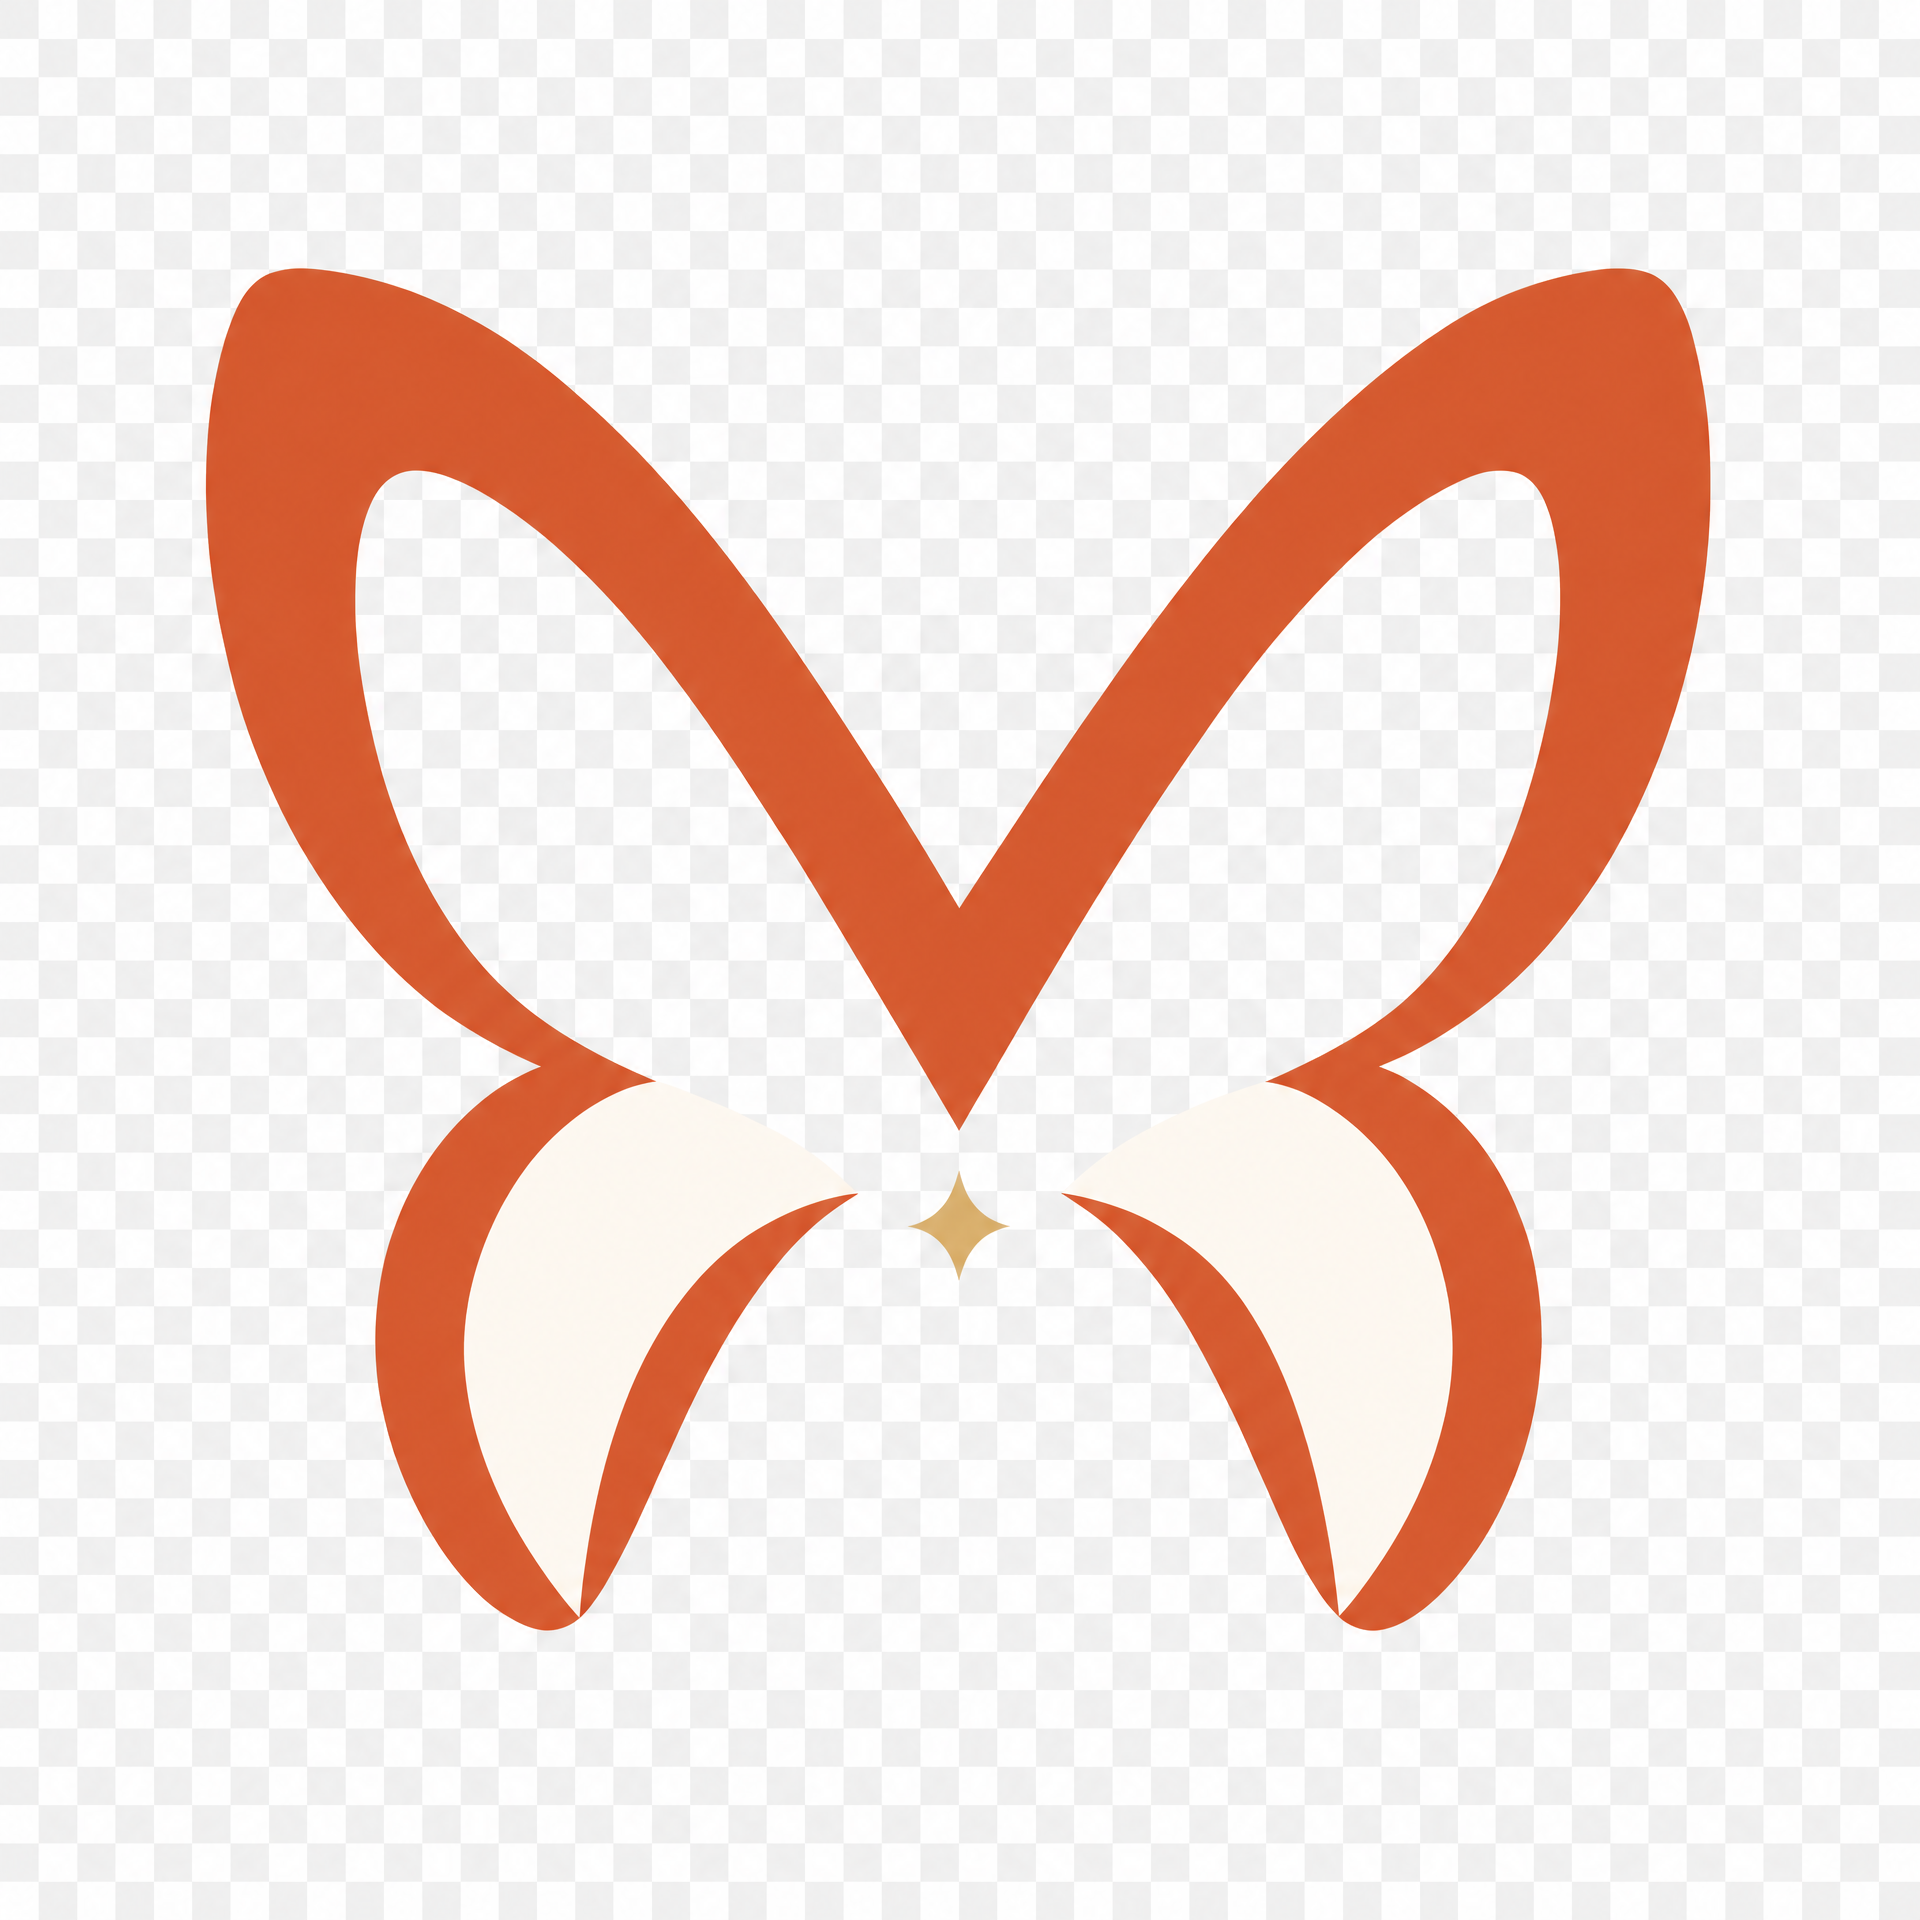
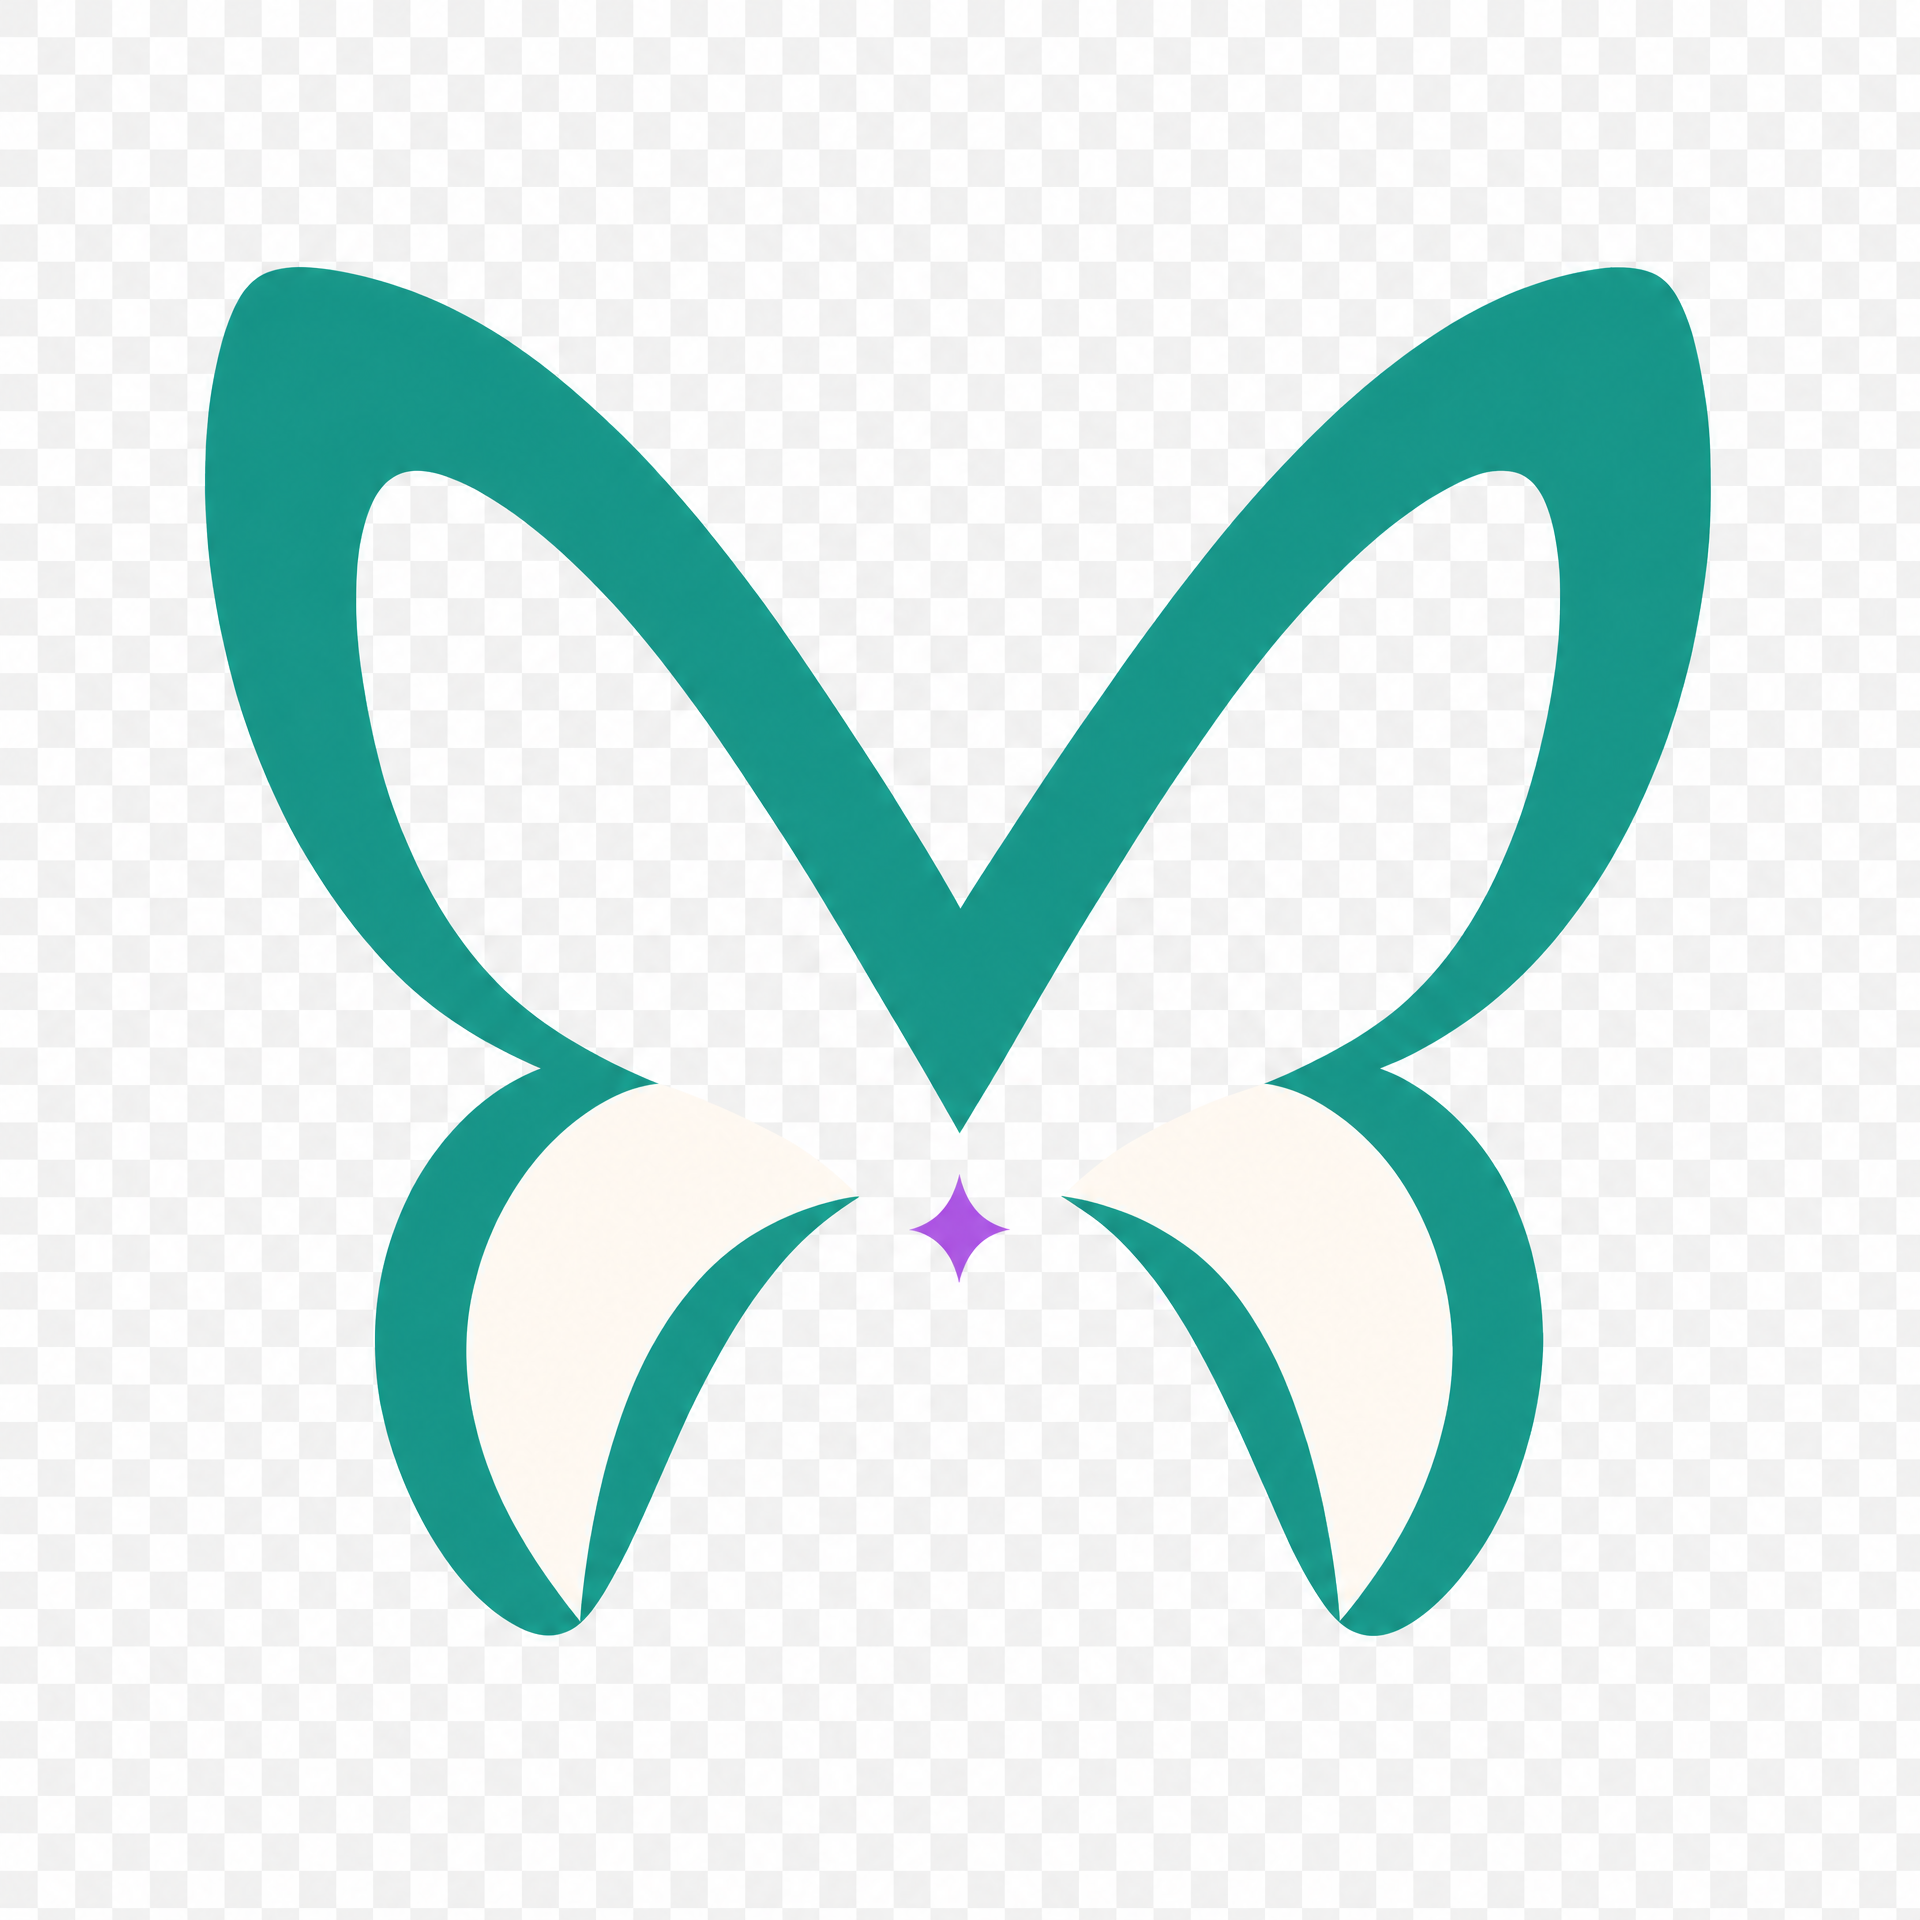
feat(theme): preview jade and sunny violet palette

Changed region(s): [[0.0938, 0.125, 0.9062, 0.875], [0.4688, 0.625, 0.5312, 0.6562]]

diff --git a/tailwind.config.ts b/tailwind.config.ts
@@ -12,26 +12,26 @@ const config: Config = {
       colors: {
         // Carnet de Confiance — couleur-action / primaire (CTA, liens importants)
         violet: {
-          DEFAULT: "#C85A32", // Terracotta Fête : primaire chaleureux et distinctif
-          dark: "#9F4528",
-          soft: "#FCE8DE",
+          DEFAULT: "#168B72", // Vert jade lumineux : signature Misstice
+          dark: "#0D584A",
+          soft: "#D9F3EA",
         },
         festif: {
-          DEFAULT: "#D4A373", // Sable doré : accent solaire et élégant
-          soft: "#F3E6D2",
+          DEFAULT: "#9B4DCA", // Violet prune ensoleillé : accent distinctif
+          soft: "#F1DDF8",
         },
         emerald: {
-          DEFAULT: "#3F8066", // Succès : vert sauge discret, réservé aux états positifs
-          soft: "#E6F1EB",
+          DEFAULT: "#2F9B74", // Succès : vert positif lisible
+          soft: "#DDF4E9",
         },
         navy: {
-          DEFAULT: "#7B5143", // Brun cacao : accent premium chaud
-          soft: "#F0E2DB",
+          DEFAULT: "#5A3C75", // Prune profond : accent premium chaud
+          soft: "#E9DDF1",
         },
-        cream: "#FAF7F2", // Lin blanc / crème poudrée
-        ink: "#2B1E1A", // Encre brune profonde
-        plum: "#3A2923", // Texte principal chaud et contrasté
-        slate: "#755F56", // Texte secondaire brun-grisé
+        cream: "#FFF8F2", // Crème claire et chaleureuse
+        ink: "#17352E", // Encre verte profonde
+        plum: "#273B36", // Texte principal contrasté
+        slate: "#5B746E", // Texte secondaire équilibré
 
       },
       // Dégradés de marque réutilisables → classes `bg-gradient-*`.
@@ -40,11 +40,11 @@ const config: Config = {
       // un aplat dominant.
       backgroundImage: {
         // Boutons CTA du quotidien, hero discret.
-        "gradient-primary": "linear-gradient(135deg, #C85A32 0%, #9F4528 100%)",
+        "gradient-primary": "linear-gradient(135deg, #168B72 0%, #0D584A 100%)",
         // Sections premium, mise en avant prestataire, hero principal.
-        "gradient-premium": "linear-gradient(135deg, #C85A32 0%, #7B5143 100%)",
+        "gradient-premium": "linear-gradient(135deg, #9B4DCA 0%, #5A3C75 100%)",
         // Fonds de section doux, transitions.
-        "gradient-soft": "linear-gradient(135deg, #FCE8DE 0%, #FAF7F2 100%)",
+        "gradient-soft": "linear-gradient(135deg, #F1DDF8 0%, #FFF8F2 100%)",
       },
       fontFamily: {
         // Titres éditoriaux (l'émotion)

diff --git a/app/animations.css b/app/animations.css
@@ -53,7 +53,7 @@
   align-items: center;
   justify-content: center;
   isolation: isolate;
-  background: #C85A32;
+  background: #168B72;
 }
 .ev-aurora::before,
 .ev-aurora::after {
@@ -70,11 +70,11 @@
 }
 .ev-aurora::before {
   left: -12%;
-  background: rgba(212, 163, 115, 0.62);
+  background: rgba(155, 77, 202, 0.54);
 }
 .ev-aurora::after {
   right: -14%;
-  background: rgba(200, 90, 50, 0.48);
+  background: rgba(22, 139, 114, 0.48);
   animation-delay: -4.5s;
 }
 .ev-aurora-content {
@@ -88,15 +88,15 @@
    Un CTA n’a pas besoin d’une respiration continue pour être visible. Le
    retour est réservé au survol et à l’appui, plus rapide et plus lisible. */
 .ev-cta {
-  background: #C85A32;
+  background: #168B72;
   transition: transform 0.16s cubic-bezier(0.23, 1, 0.32, 1),
     box-shadow 0.16s cubic-bezier(0.23, 1, 0.32, 1),
     background-color 0.16s cubic-bezier(0.23, 1, 0.32, 1);
 }
 .ev-cta:hover {
-  background: #9F4528;
+  background: #0D584A;
   transform: translateY(-2px);
-  box-shadow: 0 8px 20px rgba(159, 69, 40, 0.24);
+  box-shadow: 0 8px 20px rgba(13, 88, 74, 0.24);
 }
 .ev-cta:active { transform: scale(0.97); }
 
@@ -117,11 +117,11 @@
   border-radius: inherit;
   background: linear-gradient(
     120deg,
-    #D4A373,
-    #F3E6D2,
-    #D4A373,
-    #E9C46A,
-    #D4A373
+    #9B4DCA,
+    #F1DDF8,
+    #9B4DCA,
+    #C58BE0,
+    #9B4DCA
   );
   background-size: 300% 300%;
   animation: ev-cta-pulse-ring 6s ease-in-out infinite;
@@ -230,7 +230,7 @@
 
   /* CTA et liseré statiques ; aucun mouvement imposé. */
   .ev-cta {
-    background: #C85A32;
+    background: #168B72;
   }
   .ev-cta:hover {
     transform: none;

diff --git a/app/globals.css b/app/globals.css
@@ -46,8 +46,8 @@ html {
   box-sizing: border-box;
 }
 body {
-  background-color: #faf7f2;
-  color: #3a2923;
+  background-color: #fff8f2;
+  color: #273b36;
   -webkit-font-smoothing: antialiased;
   text-rendering: optimizeLegibility;
   /* Aucun défilement latéral parasite : un élément trop large ne décale plus
@@ -64,7 +64,7 @@ iframe {
   max-width: 100%;
 }
 :focus-visible {
-  outline: 2px solid #c85a32;
+  outline: 2px solid #9b4dca;
   outline-offset: 3px;
   border-radius: 4px;
 }
